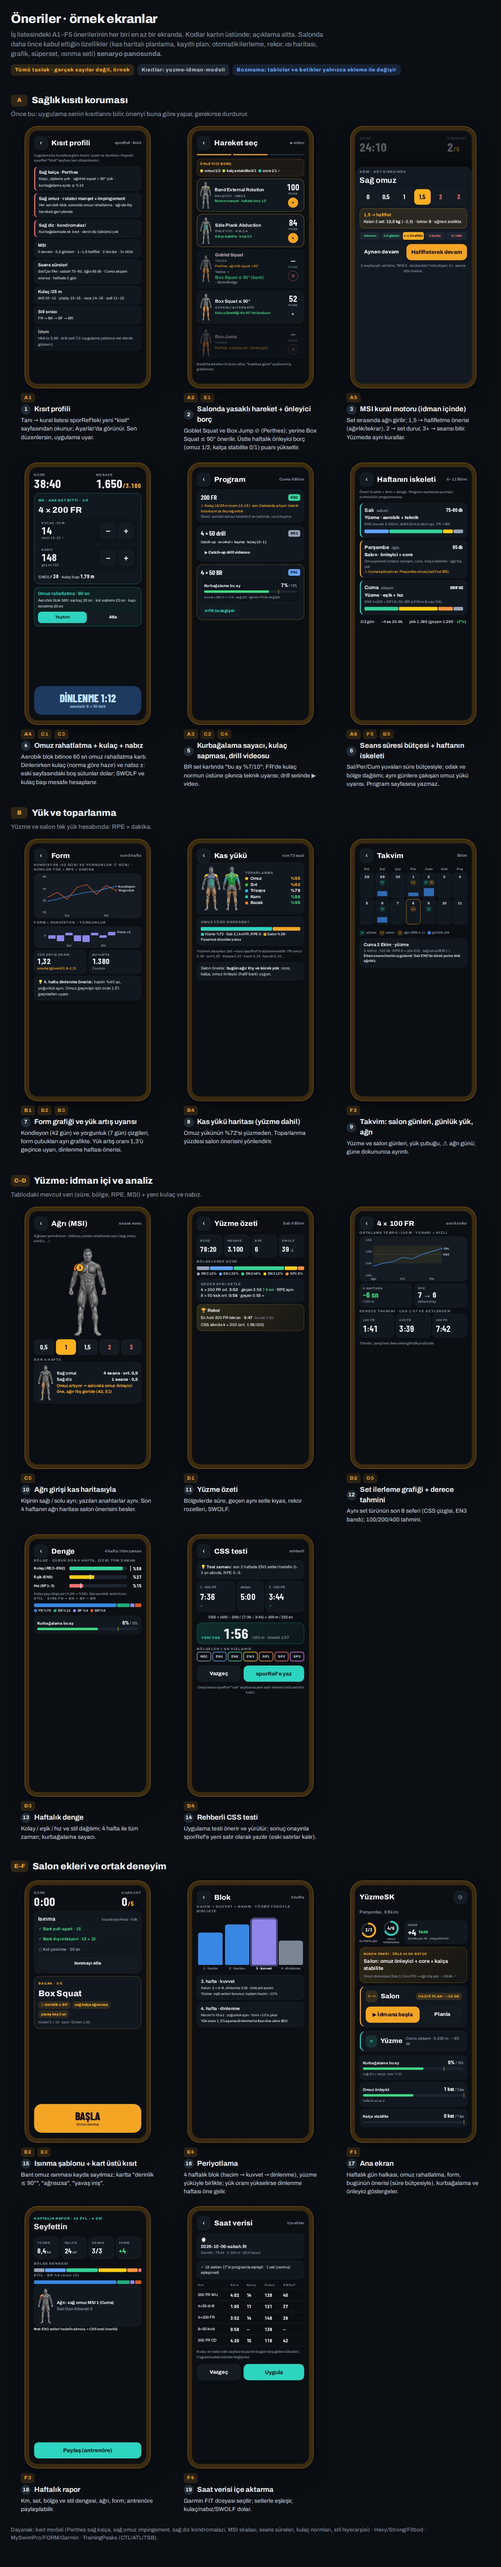
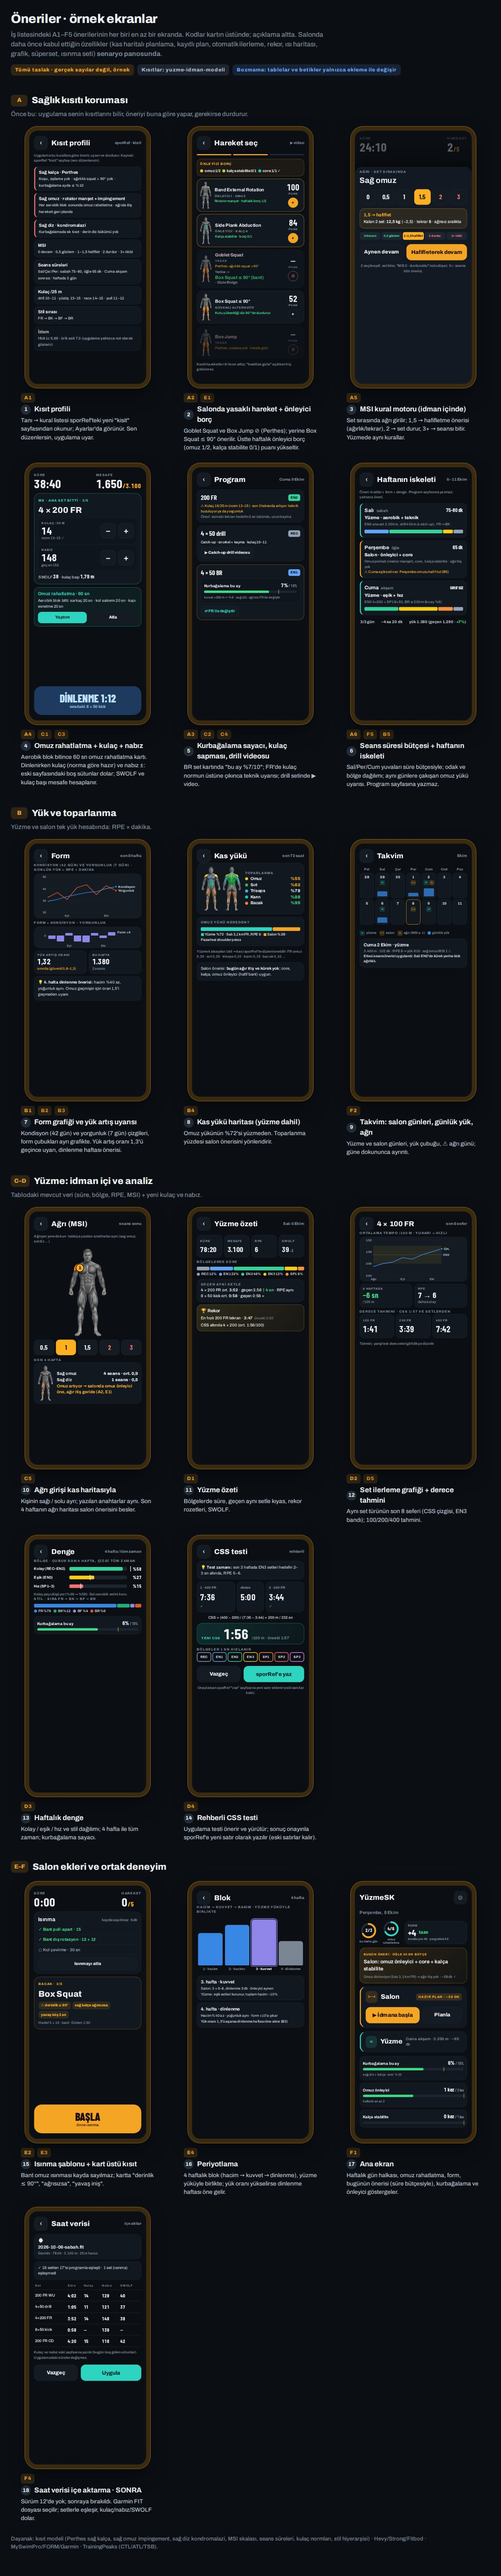
İş listesi: sürüm 12 tek seferde planı, hareket bilgi kartları (G); antrenör raporu çıkarıldı, Garmin sonraya
Claude-Session: https://claude.ai/code/session_01RZy5iPaCnnfAqxewCsrLXJ

diff --git a/tasarim/oneriler/oneriler.html b/tasarim/oneriler/oneriler.html
@@ -367,7 +367,7 @@ button{font:inherit;border:0;cursor:default}
 <div class="mtr"><div class="mtr-h"><span>Kurbağalama bu ay</span><b class="n">7%<small> / 10%</small></b></div><div class="mtr-t"><i style="width:70%;background:#3DDC84"></i><s style="left:80%"></s></div><small>bu set +200 m → %8 · sağ diz: ağrıda FR ile değiştir</small></div>
 <span class="vbtn alt">⇄ FR ile değiştir</span></div></div></div><figcaption><div class="codes"><span class="cd2">A3</span><span class="cd2">C2</span><span class="cd2">C4</span></div><b><span class="num">5</span>Kurbağalama sayacı, kulaç sapması, drill videosu</b><p>BR set kartında "bu ay %7/10"; FR'de kulaç normun üstüne çıkınca teknik uyarısı; drill setinde ▶ video.</p></figcaption></figure>
 <figure class="st yeni"><div class="frame"><div class="ph"><div class="hd"><span class="bk">‹</span><b>Haftanın iskeleti</b><span class=vid>6–11 Ekim</span></div>
-<p class="note">Öneri: kısıtlar + form + denge. Program sayfasına yazmaz; antrenörün programı esas.</p>
+<p class="note">Öneri: kısıtlar + form + denge. Program sayfasına yazmaz; yalnızca öneri.</p>
 <div class="slot" style="border-left-color:#2DD4BF"><div class="sl-h"><b>Salı</b><span>sabah</span><span class="bud n">75–80 dk</span></div>
   <p class="sl-t">Yüzme · aerobik + teknik</p><p class="mu sm">EN2 ana set 2.000 m, drill 400 m (catch-up), FR → BK</p><div class="stk2"><i style="flex:25;background:#60A5FA" title="EN1 %25"></i><i style="flex:55;background:#34D399" title="EN2 %55"></i><i style="flex:10;background:#FACC15" title="EN3 %10"></i><i style="flex:10;background:#94A3B8" title="REC %10"></i></div></div>
 <div class="slot" style="border-left-color:#F5A524"><div class="sl-h"><b>Perşembe</b><span>öğle</span><span class="bud n">65 dk</span></div>
@@ -467,20 +467,13 @@ button{font:inherit;border:0;cursor:default}
   <div class="hc-btns"><button class="go">▶ İdmana başla</button><button class="ghost">Planla</button></div></div>
 <div class="hc swim"><div class="hc-hd"><span class="ic t">≈</span><b>Yüzme</b><span class="meta">Cuma akşam · 3.200 m · ~95 dk</span></div></div>
 <div class="gauges"><div class="mtr"><div class="mtr-h"><span>Kurbağalama bu ay</span><b class="n">6%<small> / 10%</small></b></div><div class="mtr-t"><i style="width:60%;background:#3DDC84"></i><s style="left:80%"></s></div><small>sağ diz + kalça: sınır %10</small></div><div class="mtr"><div class="mtr-h"><span>Omuz önleyici</span><b class="n">1 kez<small> / 2 kez</small></b></div><div class="mtr-t"><i style="width:50%;background:#3DDC84"></i><s style="left:100%"></s></div><small>haftalık en az 2</small></div><div class="mtr"><div class="mtr-h"><span>Kalça stabilite</span><b class="n">0 kez<small> / 1 kez</small></b></div><div class="mtr-t"><i style="width:0%;background:#3DDC84"></i><s style="left:100%"></s></div></div></div></div></div><figcaption><div class="codes"><span class="cd2">F1</span></div><b><span class="num">17</span>Ana ekran</b><p>Haftalık gün halkası, omuz rahatlatma, form, bugünün önerisi (süre bütçesiyle), kurbağalama ve önleyici göstergeler.</p></figcaption></figure>
-<figure class="st yeni"><div class="frame"><div class="ph"><div class="rp-h"><small>HAFTALIK RAPOR · 28 EYL – 4 EKİ</small><b>Seyfettin</b></div>
-<div class="stats"><div><small>YÜZME</small><b class="n">8,4<span>km</span></b></div><div><small>SALON</small><b class="n">24<span>set</span></b></div><div><small>SEANS</small><b class="n">3/3</b></div><div><small>FORM</small><b class="n ok">+4</b></div></div>
-<p class="lb">BÖLGE DENGESİ</p><div class="stk2"><i style="flex:10;background:#94A3B8" title="REC %10"></i><i style="flex:20;background:#60A5FA" title="EN1 %20"></i><i style="flex:30;background:#34D399" title="EN2 %30"></i><i style="flex:27;background:#FACC15" title="EN3 %27"></i><i style="flex:10;background:#FB923C" title="SP1 %10"></i><i style="flex:3;background:#F87171" title="SP2 %3"></i></div>
-<p class="lb">STİL · BR %6 (sınır 10)</p><div class="stk2"><i style="flex:78;background:#3987e5" title="FR %78"></i><i style="flex:12;background:#1baf7a" title="BK %12"></i><i style="flex:4;background:#9085e9" title="BF %4"></i><i style="flex:6;background:#d95926" title="BR %6"></i></div>
-<div class="pain"><div class="pmap sm"><div class="mb front pm"><i class="omuz" style="opacity:0.90;clip-path:inset(0 50% 0 0)"></i></div></div><div class="cv-tx"><p>Ağrı: sağ omuz MSI 1 (Cuma)</p><p class="mu sm">Salı'dan itibaren 0</p></div></div>
-<p class="sm"><b>Not:</b> EN3 setleri hedefin altında → CSS testi önerildi.</p>
-<div class="foot1"><button class="go t">Paylaş (antrenöre)</button></div></div></div><figcaption><div class="codes"><span class="cd2">F3</span></div><b><span class="num">18</span>Haftalık rapor</b><p>Km, set, bölge ve stil dengesi, ağrı, form; antrenöre paylaşılabilir.</p></figcaption></figure>
 <figure class="st yeni"><div class="frame"><div class="ph"><div class="hd"><span class="bk">‹</span><b>Saat verisi</b><span class=vid>içe aktar</span></div>
 <div class="file">⌚ <b>2026-10-06-sabah.fit</b><span class="mu sm">Garmin · 78 dk · 3.100 m · 25 m havuz</span></div>
 <div class="tip">✓ 18 setten 17'si programla eşleşti · 1 set (ısınma) eşleşmedi</div>
 <table class="ft"><tr><th>Set</th><th>Süre</th><th>Kulaç</th><th>Nabız</th><th>SWOLF</th></tr>
 <tr><td>200 FR WU</td><td class="n">4:02</td><td class="n">14</td><td class="n">128</td><td class="n">40</td></tr><tr><td>4×50 drill</td><td class="n">1:05</td><td class="n">11</td><td class="n">121</td><td class="n">37</td></tr><tr><td>4×200 FR</td><td class="n">3:52</td><td class="n">14</td><td class="n">148</td><td class="n">38</td></tr><tr><td>8×50 kick</td><td class="n">0:58</td><td class="n">—</td><td class="n">139</td><td class="n">—</td></tr><tr><td>200 FR CD</td><td class="n">4:20</td><td class="n">15</td><td class="n">118</td><td class="n">42</td></tr></table>
 <p class="note">Kulaç ve nabız eski sayfasına yazılır (bugün boş giden sütunlar). Uygulamadaki süreler değişmez.</p>
-<div class="foot2 st2"><button class="ghost">Vazgeç</button><button class="go t">Uygula</button></div></div></div><figcaption><div class="codes"><span class="cd2">F4</span></div><b><span class="num">19</span>Saat verisi içe aktarma</b><p>Garmin FIT dosyası seçilir; setlerle eşleşir, kulaç/nabız/SWOLF dolar.</p></figcaption></figure>
+<div class="foot2 st2"><button class="ghost">Vazgeç</button><button class="go t">Uygula</button></div></div></div><figcaption><div class="codes"><span class="cd2">F4</span></div><b><span class="num">18</span>Saat verisi içe aktarma · SONRA</b><p>Sürüm 12'de yok; sonraya bırakıldı. Garmin FIT dosyası seçilir; setlerle eşleşir, kulaç/nabız/SWOLF dolar.</p></figcaption></figure>
 </div>
 <p class="src">Dayanak: kısıt modeli (Perthes sağ kalça, sağ omuz impingement, sağ diz kondromalazi, MSI skalası, seans süreleri, kulaç normları, stil hiyerarşisi) · Hevy/Strong/Fitbod · MySwimPro/FORM/Garmin · TrainingPeaks (CTL/ATL/TSB).</p>
 </main></body></html>

diff --git a/tasarim/oneriler/kaynak/yap.py b/tasarim/oneriler/kaynak/yap.py
@@ -106,7 +106,7 @@ E['ana'] = phone(f'''
 slot = lambda gun, saat, butce, tur, odak, renk, alt='': f'''<div class="slot" style="border-left-color:{renk}"><div class="sl-h"><b>{gun}</b><span>{saat}</span><span class="bud n">{butce}</span></div>
   <p class="sl-t">{tur}</p><p class="mu sm">{odak}</p>{alt}</div>'''
 E['iskelet'] = phone(f'''{hd('Haftanın iskeleti', '6–11 Ekim')}
-<p class="note">Öneri: kısıtlar + form + denge. Program sayfasına yazmaz; antrenörün programı esas.</p>
+<p class="note">Öneri: kısıtlar + form + denge. Program sayfasına yazmaz; yalnızca öneri.</p>
 {slot('Salı', 'sabah', '75–80 dk', 'Yüzme · aerobik + teknik', 'EN2 ana set 2.000 m, drill 400 m (catch-up), FR → BK', '#2DD4BF', stack([('EN1', 25, ZC[1]), ('EN2', 55, ZC[2]), ('EN3', 10, ZC[3]), ('REC', 10, ZC[0])]))}
 {slot('Perşembe', 'öğle', '65 dk', 'Salon · önleyici + core', 'Omuz prehab (rotator manşet), core, kalça stabilite · ağır itiş yok', '#F5A524', '<p class="warn sm">⚠ Cuma eşik seti var: Perşembe omuzu hafif tut (B5)</p>')}
 {slot('Cuma', 'akşam', 'sınırsız', 'Yüzme · eşik + hız', 'EN3 4×200 + SP1 8×50, BR ≤ 200 m (bu ay %6)', '#2DD4BF', stack([('EN2', 35, ZC[2]), ('EN3', 40, ZC[3]), ('SP1', 15, ZC[4]), ('REC', 10, ZC[0])]))}
@@ -297,8 +297,7 @@ SEC = [
         ('isinma', ['E2', 'E3'], 'Isınma şablonu + kart üstü kısıt', 'Bant omuz ısınması kayda sayılmaz; kartta "derinlik ≤ 90°", "ağrısızsa", "yavaş iniş".'),
         ('periyot', ['E4'], 'Periyotlama', '4 haftalık blok (hacim → kuvvet → dinlenme), yüzme yüküyle birlikte; yük oranı yükselirse dinlenme haftası öne gelir.'),
         ('ana', ['F1'], 'Ana ekran', 'Haftalık gün halkası, omuz rahatlatma, form, bugünün önerisi (süre bütçesiyle), kurbağalama ve önleyici göstergeler.'),
-        ('rapor', ['F3'], 'Haftalık rapor', 'Km, set, bölge ve stil dengesi, ağrı, form; antrenöre paylaşılabilir.'),
-        ('fit', ['F4'], 'Saat verisi içe aktarma', 'Garmin FIT dosyası seçilir; setlerle eşleşir, kulaç/nabız/SWOLF dolar.'),
+        ('fit', ['F4'], 'Saat verisi içe aktarma · SONRA', 'Sürüm 12\'de yok; sonraya bırakıldı. Garmin FIT dosyası seçilir; setlerle eşleşir, kulaç/nabız/SWOLF dolar.'),
     ]),
 ]
 

diff --git a/IS_LISTESI.md b/IS_LISTESI.md
@@ -9,6 +9,37 @@ Tamamlandı (sürüm 8), bkz. Tamamlanan. Kalan: Code.gs'in yeniden dağıtılma
 
 ## Sıradaki
 
+### Sürüm 12 — tek seferde uygulanacak plan (04.10.2026)
+"uygula" denince aşağıdakilerin **hepsi tek sürümde** yapılır; sıra, bağımlılığa göre. Ayrıntılar alttaki
+maddelerde (A1–F5, salon senaryosu, hareket bilgi kartları). Garmin (F4) sonraya; antrenör raporu (F3) çıkarıldı.
+- [ ] **0. Hazırlık:** tüm testler yeşil (03.10.2026: hepsi geçti, uçtan uca 52/52); dalda çalışılır.
+- [ ] **1. Veri ve betikler (yalnızca ekleme):** sporRef'e `kisit`, `yuzmeKas` (stil → kas katsayıları), `drill`
+  (video) sayfaları; SporRef.gs bunları okur + CSS testi için yalnızca satır ekleyen işlem. SalonTakip `H`'ye
+  isteğe bağlı Kısıt / Alternatif / Görsel sütunları (yoksa da çalışır). Eski sütunlar, sayfalar, işlemler aynen.
+- [ ] **2. Ortak çekirdek:** 10 kas grubu (Türkçe ad, v27 renkleri; eski 7 ad çalışır) · kısıt motoru (A1, A2,
+  A3, A5, A6) · yük ve toparlanma (B1–B5, yüzme kas yükü dahil).
+- [ ] **3. Salon:** kas haritalı planlama (v27; eski çubuk listesi "Liste" görünümü) · öneri kartlarında mini
+  vücut + plan tepsisi · plan Kaydet + ana sayfadan doğrudan giriş · otomatik ilerleme ("geri al"; ⚠'de yok) ·
+  toparlanma · önleyici borç (E1) · kart üstü kısıt (E2) · ısınma şablonu (E3) · periyotlama (E4) · rekor ·
+  özet (hacim, kas ısı haritası, kıyas) · hareket grafiği · dinlenme bitti bildirimi · süperset · ısınma seti ·
+  **hareket bilgi kartları (G)**.
+- [ ] **4. Yüzme:** omuz rahatlatma (A4) · kulaç + nabız girişi, SWOLF (C1–C3) · drill videosu (C4) · ağrı
+  haritası (C5) · özet (D1) · set grafiği (D2) · denge (D3) · rehberli CSS testi (D4) · derece tahmini (D5).
+- [ ] **5. Ortak ekranlar:** ana ekran (F1) · takvim (F2) · haftanın iskeleti (F5) · form ekranı (B2–B3).
+- [ ] **6. Düzeltmeler:** hareket sonu "SETLER 10-10-/10" kırılması · İngilizce grup adları ("Legs 0,7") ·
+  Ayarlar'da kaynak/lisans notu (kas görseli: kullanıcı; hareket fotoğrafları: free-exercise-db, Unlicense).
+- [ ] **7. Test ve yayın:** her adımda tüm testler; her yeni özelliğe uçtan uca senaryo; senaryo ve öneri
+  panoları yeniden çekilir; kurulum rehberi (yeni sayfalar) güncellenir; sürüm 12.0.0 → main.
+
+- [ ] **G. Hareket bilgi kartları (infografik)** (talep 04.10.2026). Kaynak: free-exercise-db (yuhonas, Unlicense =
+  kamu malı; 876 hareket, her biri başlangıç/bitiş fotoğrafı, adım adım anlatım, birincil/ikincil kas, ekipman).
+  - Eşleme: H'deki hareket adları → veritabanı kimliği (otomatik + elle düzeltme; H'de isteğe bağlı "Görsel").
+  - Yalnızca senin hareketlerinin fotoğrafları uygulamaya gömülür (webp, çevrimdışı çalışır; dış istek yok).
+  - Kart: başlangıç ↔ bitiş geçişi (animasyon), Türkçe adımlar, çalışan kaslar v27 mini vücutta, kısıt notu
+    (A2/E2), sık hata, ▶ video. Eşleşmeyen harekette: mini vücut + adımlar + video.
+  - Açılış: idmanda karta dokun → ayrıntı paneli; planlamada öneri kartında ⓘ.
+
+
 **Sürüm 11 yayında (03.10.2026):** 3'lü dosya yapısı (YuzmeProgram · SalonTakip · sporRef, her birine
 kendi `@OnlyCurrentDoc` betiği), sporRef'ten CSS ve 7 bölge, idman anında düzenleme, metin boyu,
 salon idmanı + planlama + video. Kurulum için yapılacaklar (senin tarafında):
@@ -154,9 +185,8 @@ Talep (03.10.2026, karar bekliyor):
   - [ ] F1 Ana ekran: haftalık 3 gün halkası, form durumu (taze/yorgun), bugünün önerisi (yüzme mi salon mu,
     süre bütçesiyle), BR ve omuz prehab göstergeleri.
   - [ ] F2 Takvim: salon günleri, günlük yük çubuğu, kısıt uyarıları.
-  - [ ] F3 Haftalık rapor (Pazar): km, salon set, bölge ve stil dengesi, BR %, ağrı haritası, form; antrenöre
-    paylaşılabilir sayfa.
-  - [ ] F4 Saat verisi içe aktarma (Garmin FIT dosyası seç): kulaç, nabız, SWOLF otomatik dolar.
+  - ~~F3 Haftalık rapor (antrenöre paylaşılabilir)~~ — çıkarıldı (04.10.2026: antrenör yok).
+  - [ ] F4 Saat verisi içe aktarma (Garmin FIT) — **sonra** (04.10.2026), sürüm 12'de yok.
   - [ ] F5 Haftalık program iskeleti önerisi: kısıtlar + form + denge → 3 günün odağı (öneri, program sayfasına
     yazmaz).
   Örnek ekranlar (19 taslak, her madde en az birinde): `tasarim/oneriler/oneriler.html` (kaynak: `kaynak/yap.py`).
